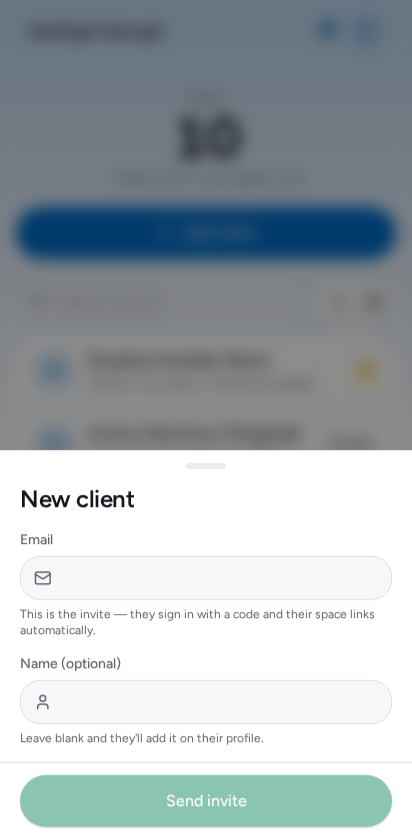
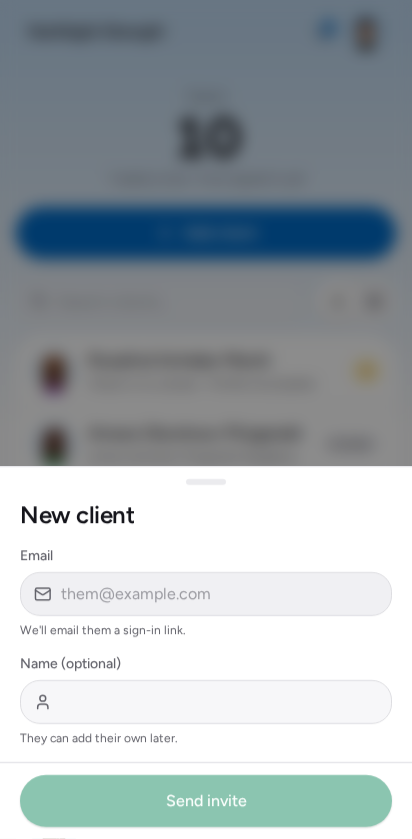
The add-client sheet, and faces in the screenshots
THE SHEET. Four things were wrong with it and none was the layout.

The KEYBOARD did not arrive. A one-field form opened with nothing focused, so
the first tap was spent putting the cursor where the sheet exists to put it, and
Enter did nothing once you were there. Both fixed — the focus waits out the
drawer's entrance, because focusing an element that is still sliding scrolls the
sheet back under the keyboard in some browsers.

The DISABLED BUTTON was the only feedback on a malformed address, and a disabled
control never says why. The field says it now, once, on BLUR — telling somebody
three characters into typing an email that it is not an email is noise. This is
the case the toast rule explicitly excludes: a validation error names which input
is wrong and belongs under that input.

The HINT was fifteen words explaining the mechanism of a passwordless invite
above a field asking for an email. "We'll email them a sign-in link" is the
whole of it (§10 budgets), and the placeholder now shows the shape.

The FAILURE was a warning line at the bottom of the sheet — which is precisely
where nobody is looking after pressing a button in the footer. It is a toast.

FACES IN THE IMAGES. Every avatar in every screenshot was a two-letter monogram,
because Chromium in this sandbox cannot reach `api.dicebear.com` and the app
correctly fell back. A real roster is mostly seeded avatars, so the images were
showing the least representative state there is — and the flattest thing to put
[…]

diff --git a/apps/app/src/screens/coach/Clients.tsx b/apps/app/src/screens/coach/Clients.tsx
@@ -3,9 +3,9 @@
  * (same surfaces scoped to the client) wrapped in coach chrome + editing tabs.
  */
 
-import { useCallback, useEffect, useMemo, useState } from "react";
+import { useCallback, useEffect, useMemo, useRef, useState } from "react";
 import { useNavigate, useParams, useSearchParams } from "react-router-dom";
-import { Button, Card, Badge, Field, Sheet, Avatar, IconTabs, Page, Stagger, ConfirmDialog, Collection, useCollectionView, toneVar, Users, Mail, User, ArrowLeft, Plus, Copy, Check, ExternalLink, Archive, AlertTriangle, Anchor, CountUp, Group, Row, Sun, ClipboardList, Target, TrendingUp, BarChart3, Settings as SettingsIcon } from "@4dl/ui";
+import { Button, Card, Badge, Field, Sheet, Avatar, IconTabs, Page, Stagger, ConfirmDialog, Collection, useCollectionView, ActionResult, toneVar, Users, Mail, User, ArrowLeft, Plus, Copy, Check, ExternalLink, Archive, AlertTriangle, Anchor, CountUp, Group, Row, Sun, ClipboardList, Target, TrendingUp, BarChart3, Settings as SettingsIcon } from "@4dl/ui";
 import type { AttentionSeverity } from "@kova/domain";
 import { api, errorText } from "../../api.js";
 import { useSession } from "../../session.js";
@@ -70,6 +70,10 @@ export function Clients() {
   const [email, setEmail] = useState("");
   const [busy, setBusy] = useState(false);
   const [createErr, setCreateErr] = useState<string | null>(null);
+  // Validation speaks on BLUR, not on every keystroke: "that is not an email"
+  // while somebody is three characters into typing one is noise.
+  const [emailTouched, setEmailTouched] = useState(false);
+  const emailRef = useRef<HTMLInputElement>(null);
   const [loadError, setLoadError] = useState(false);
   // After a client is created with an email, hold the invite so the coach can
   // show / copy the in-gym deep-link before continuing into the client.
@@ -152,6 +156,20 @@ export function Clients() {
     finally { setArchiveBusy(false); }
   };
   const stillNeeded = Math.max(0, freeTarget - freedCount);
+
+  /*
+   * Put the cursor in the one field the sheet has.
+   *
+   * A one-field form that opens with nothing focused spends the reader's first
+   * tap on the thing the sheet exists for. The delay is the drawer's own
+   * entrance: focusing an element that is still sliding scrolls the sheet back
+   * up under some browsers, which looks like the sheet fighting the keyboard.
+   */
+  useEffect(() => {
+    if (!createOpen) return;
+    const t = setTimeout(() => emailRef.current?.focus(), 260);
+    return () => clearTimeout(t);
+  }, [createOpen]);
 
   // Consume the deep link once, then strip it, so a back-navigation or a reload
   // does not re-open the sheet over whatever the coach moved on to.
@@ -296,11 +314,63 @@ export function Clients() {
         )}
       />
 
-      <Sheet open={createOpen} onClose={() => { setCreateOpen(false); setCreateErr(null); }} title="New client" footer={<Button size="lg" className="w-full" disabled={!emailValid || busy} onClick={() => void create()}>{busy ? "Sending…" : "Send invite"}</Button>}>
+      {/*
+        ADDING A CLIENT IS ONE FIELD, AND THE SHEET SHOULD ACT LIKE IT.
+
+        Four things were wrong with the old version and none of them was the
+        layout:
+
+          the KEYBOARD did not arrive.   The sheet opened with nothing focused,
+                                         so the first tap of a one-field form
+                                         was spent putting the cursor in it, and
+                                         Enter did nothing once you were there.
+          the DISABLED BUTTON was mute.  It was the only feedback on a malformed
+                                         address, and a disabled control never
+                                         says why. Now the field says so itself,
+                                         once — on blur, so it does not shout at
+                                         somebody halfway through typing.
+          the HINT was a paragraph.      Fifteen words explaining the mechanism
+                                         of a passwordless invite above a field
+                                         asking for an email (§10 budgets).
+          the FAILURE was a warning line at the bottom of the sheet, which is
+          exactly where the reader is not looking after pressing a button in the
+          footer. It is a toast now, like every other outcome (§7).
+      */}
+      <Sheet
+        open={createOpen}
+        onClose={() => { setCreateOpen(false); setCreateErr(null); setEmailTouched(false); }}
+        title="New client"
+        footer={<Button size="lg" className="w-full" disabled={!emailValid || busy} onClick={() => void create()}>{busy ? "Sending…" : "Send invite"}</Button>}
+      >
         <div className="space-y-4">
-          <Field label="Email" icon={Mail} type="email" value={email} onChange={(e) => setEmail(e.target.value)} hint="This is the invite — they sign in with a code and their space links automatically." />
-          <Field label="Name (optional)" icon={User} value={name} onChange={(e) => setName(e.target.value)} hint="Leave blank and they'll add it on their profile." />
-          {createErr && <p className="text-sm text-warning" role="alert">{createErr}</p>}
+          <Field
+            ref={emailRef}
+            label="Email"
+            icon={Mail}
+            type="email"
+            inputMode="email"
+            autoComplete="off"
+            autoCapitalize="off"
+            spellCheck={false}
+            value={email}
+            placeholder="them@example.com"
+            onChange={(e) => { setEmail(e.target.value); if (emailTouched) setEmailTouched(false); }}
+            onBlur={() => setEmailTouched(true)}
+            onKeyDown={(e) => { if (e.key === "Enter" && emailValid && !busy) void create(); }}
+            error={emailTouched && email.trim() && !emailValid ? "That doesn't look like an email address." : undefined}
+            hint="We'll email them a sign-in link."
+          />
+          <Field
+            label="Name (optional)"
+            icon={User}
+            value={name}
+            autoComplete="off"
+            onChange={(e) => setName(e.target.value)}
+            onKeyDown={(e) => { if (e.key === "Enter" && emailValid && !busy) void create(); }}
+            hint="They can add their own later."
+          />
+          {/* Renders nothing — it announces. */}
+          <ActionResult msg={null} err={createErr} />
         </div>
       </Sheet>
 

diff --git a/apps/e2e/src/demo.ts b/apps/e2e/src/demo.ts
@@ -59,7 +59,7 @@ export interface DemoWorld {
  */
 export async function buildDemoWorld(browser: Browser, theme: "light" | "dark"): Promise<DemoWorld> {
   const studio = await provisionStudio(browser, DEMO_STUDIO);
-  themed(studio.context, theme);
+  await prepare(studio.context, theme);
 
   /*
    * A PLAN FIRST, comped — not an entitlement override.
@@ -79,7 +79,7 @@ export async function buildDemoWorld(browser: Browser, theme: "light" | "dark"):
   await compOntoPlan(studio, "pro");
 
   const client = await provisionClient(browser, studio, DEMO_CLIENT);
-  themed(client.context, theme);
+  await prepare(client.context, theme);
 
   // A roster with the photographed client at the top of it. The names carry
   // their own variety — lengths from "Ben Ho" to "Amara Okonkwo-Fitzgerald" —
@@ -103,6 +103,47 @@ export async function buildDemoWorld(browser: Browser, theme: "light" | "dark"):
 }
 
 /**
+ * DRAW THE FACES, without asking the browser to reach the internet.
+ *
+ * A studio's people are drawn by DiceBear from a seed whenever nobody uploaded
+ * a photo — which is most of a real roster, and is exactly what the roster
+ * screens are supposed to show. Chromium here cannot reach `api.dicebear.com`
+ * (the sandbox's egress proxy refuses the CONNECT), so every avatar fell back
+ * to a two-letter monogram and the images were a grid of grey initials: a real
+ * state, but the least representative one and the flattest possible thing to
+ * put in front of a customer.
+ *
+ * Node CAN reach it, so the request is fulfilled from there. What lands in the
+ * page is the genuine asset from the genuine URL — only the transport differs,
+ * which is the one thing a screenshot does not document. Responses are cached
+ * per URL because a ten-person roster asks for the same handful repeatedly.
+ *
+ * If the fetch fails the route is left ALONE rather than stubbed: the app then
+ * shows its real initials fallback, which is the honest picture of a machine
+ * with no egress — better than a placeholder that looks like a product
+ * decision.
+ */
+const avatarCache = new Map<string, string>();
+
+async function serveAvatars(context: BrowserContext): Promise<void> {
+  await context.route("https://api.dicebear.com/**", async (route) => {
+    const url = route.request().url();
+    try {
+      let svg = avatarCache.get(url);
+      if (svg === undefined) {
+        const res = await fetch(url);
+        if (!res.ok) throw new Error(`dicebear ${res.status}`);
+        svg = await res.text();
+        avatarCache.set(url, svg);
+      }
+      await route.fulfill({ status: 200, contentType: "image/svg+xml", body: svg });
+    } catch {
+      await route.fallback();
+    }
+  });
+}
+
+/**
  * Pin the theme before the app boots.
  *
  * The mode is read out of local storage in the theme provider's INITIAL state,
@@ -111,12 +152,13 @@ export async function buildDemoWorld(browser: Browser, theme: "light" | "dark"):
  * choice, which then overrides the studio's default and quietly makes the
  * light/dark pair a different comparison than the one intended.
  */
-function themed(context: BrowserContext, theme: "light" | "dark"): void {
-  void context.addInitScript((mode) => {
+export async function prepare(context: BrowserContext, theme: "light" | "dark"): Promise<void> {
+  await context.addInitScript((mode) => {
     try {
       localStorage.setItem("kova-theme", mode as string);
     } catch {
       /* storage unavailable — the default theme is then photographed */
     }
   }, theme);
+  await serveAvatars(context);
 }

diff --git a/apps/e2e/shots/studio.spec.ts b/apps/e2e/shots/studio.spec.ts
@@ -15,7 +15,7 @@
  */
 
 import { test } from "@playwright/test";
-import { buildDemoWorld, DEMO_STUDIO, type DemoWorld } from "../src/demo.js";
+import { buildDemoWorld, DEMO_STUDIO, prepare, type DemoWorld } from "../src/demo.js";
 import { shoot, visit } from "../src/shoot.js";
 import { teardown } from "../src/provision.js";
 
@@ -143,9 +143,7 @@ test("the client's app", async () => {
  */
 test("the sign-in screen", async ({ browser }) => {
   const context = await browser.newContext();
-  await context.addInitScript((mode) => {
-    try { localStorage.setItem("kova-theme", mode as string); } catch { /* default theme */ }
-  }, project.endsWith("light") ? "light" : "dark");
+  await prepare(context, project.endsWith("light") ? "light" : "dark");
   const page = await context.newPage();
   try {
     await visit(page, `${world.studio.base}/`, page.getByRole("button", { name: /email me a code/i }));

diff --git a/docs/help/kova/add-a-client.md b/docs/help/kova/add-a-client.md
@@ -28,12 +28,19 @@ rest themselves the first time they sign in.
 ![The Clients screen, showing the roster and the Add client button.](images/coach-roster.png)
 
 *Clients — every person you coach, with anything that needs your attention
-called out on their row.*
+called out on their row. Someone who has not signed in yet shows as **Invited**.*
+
+The two buttons beside the search switch between this list and a grid of faces.
+Kova remembers which you prefer.
+
+![The same roster shown as a grid of client photos.](images/coach-roster-grid.png)
+
+*The grid view — the same roster, for a studio that knows its people by sight.*
 
 ![The New client sheet, with an Email field, an optional Name field and a Send invite button.](images/coach-add-client.png)
 
-*New client — the email is the invite. A name is optional; leave it blank and
-they add their own.*
+*New client — the cursor is already in the field, and Enter sends. A name is
+optional; leave it blank and they add their own.*
 
 ## What happens next
 
